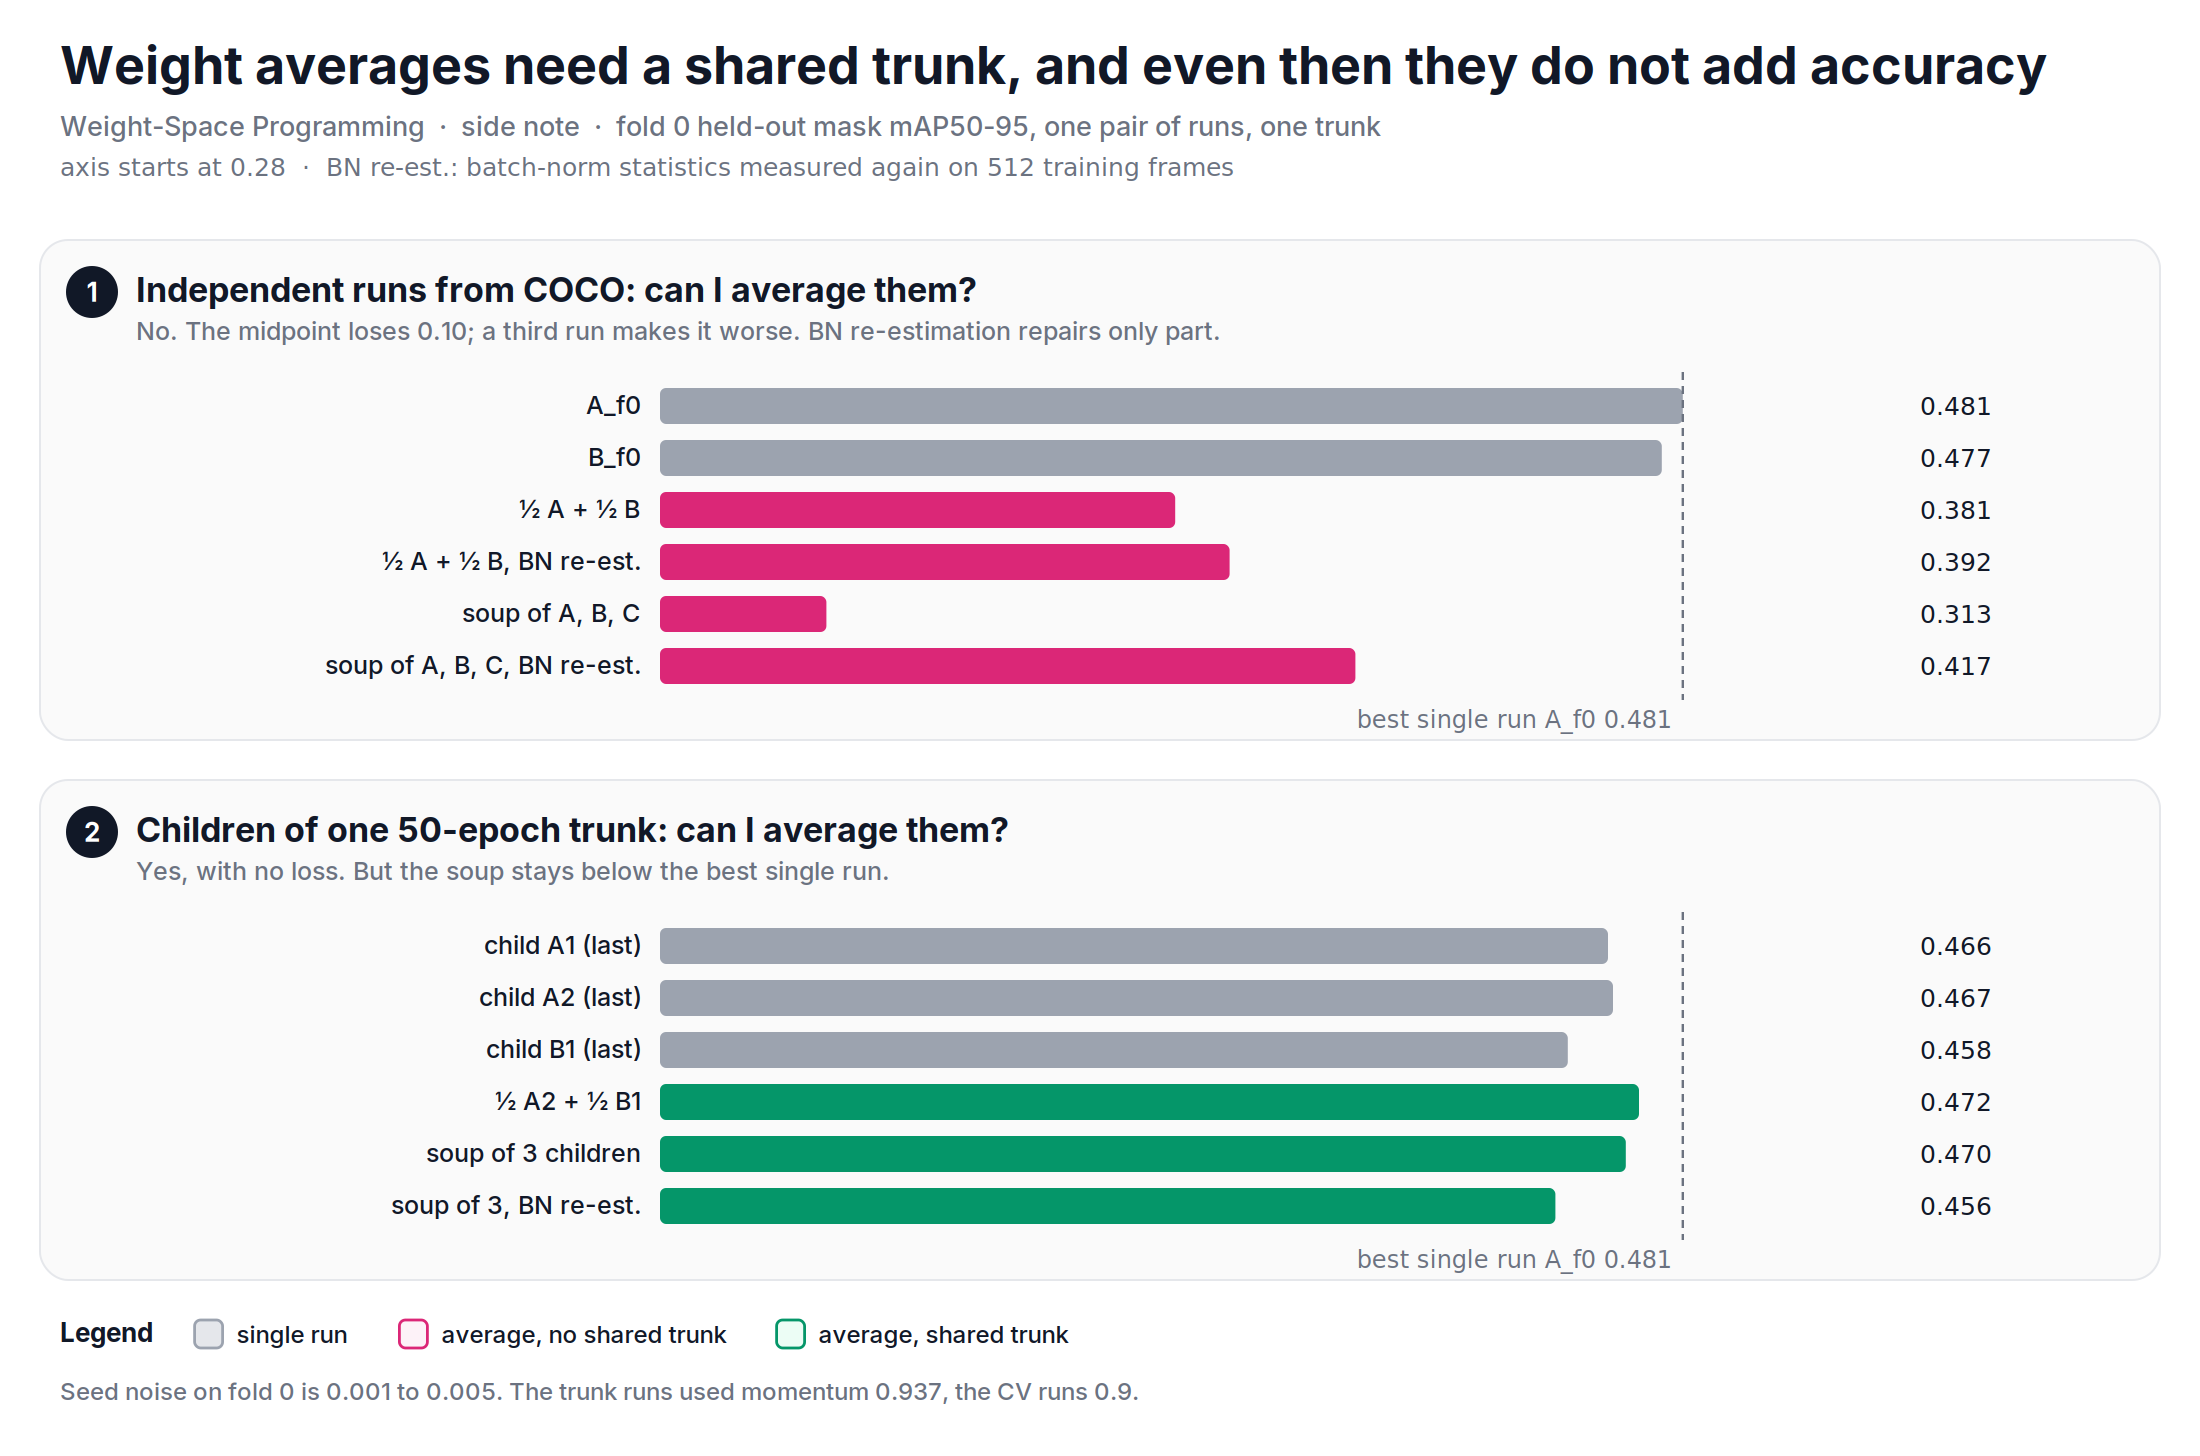
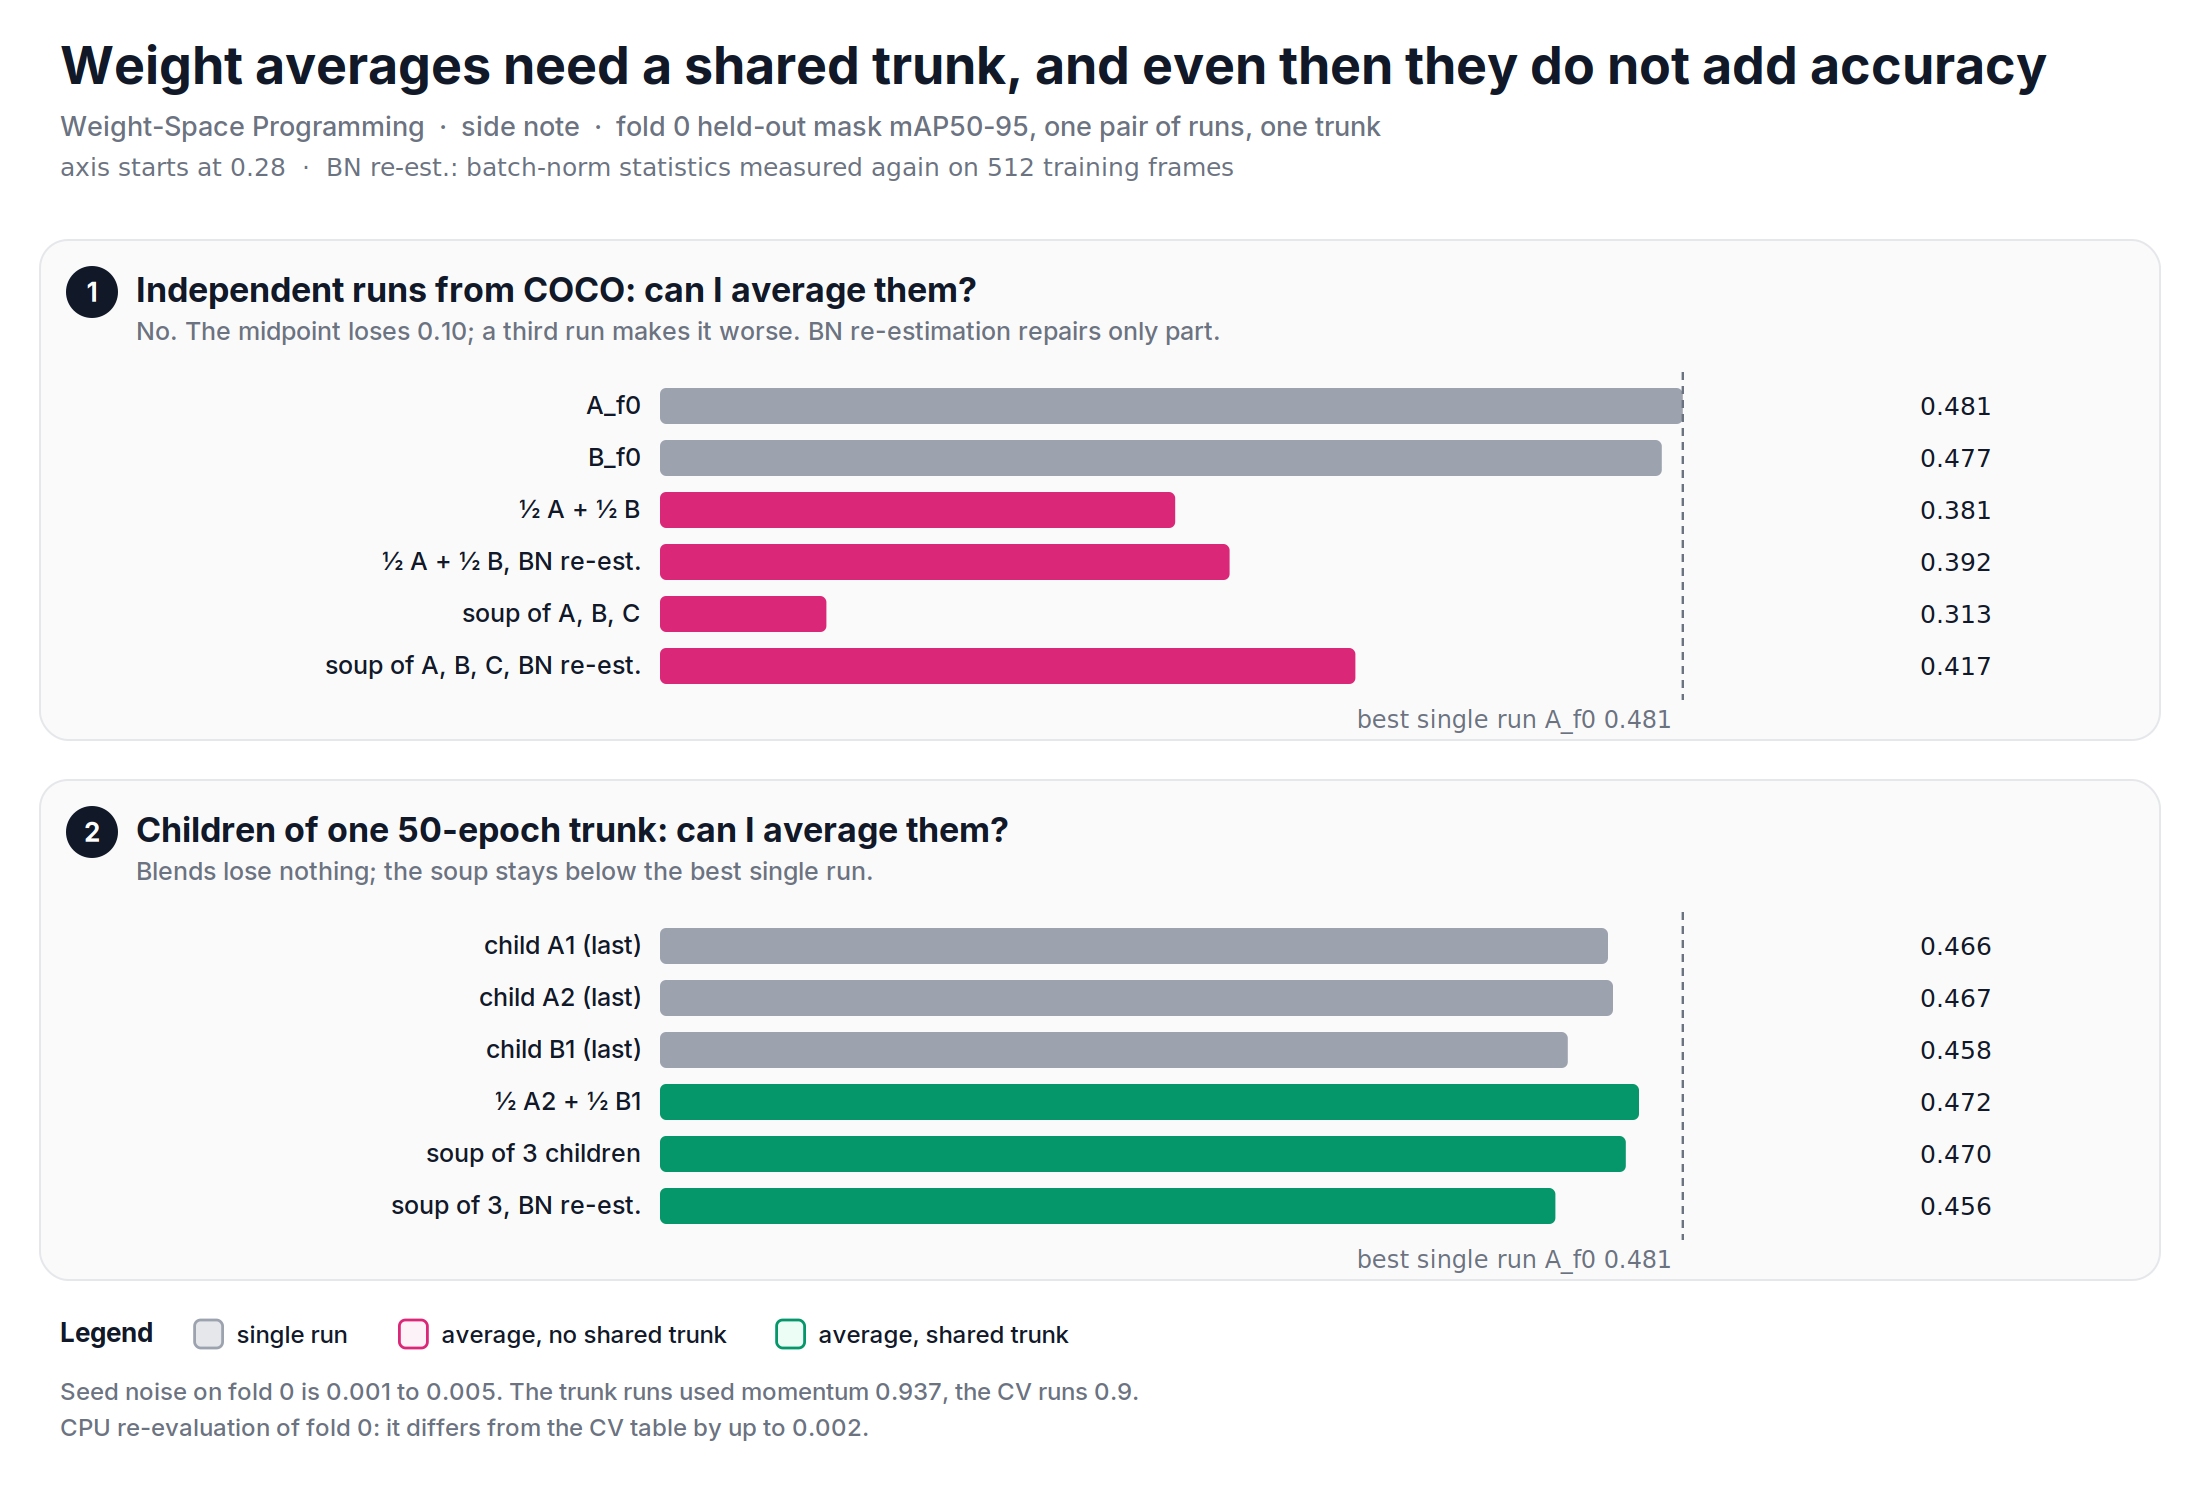
Weight-Space Programming side note: apply review fixes (confounds, eval source, wording)

diff --git a/learnings/20261114_wsp_eel_agent_training/diagrams/fig2_merge.py b/learnings/20261114_wsp_eel_agent_training/diagrams/fig2_merge.py
@@ -40,7 +40,7 @@ bars(d, y1 + 74, [
 ])
 y2, h2 = y1 + h1 + 20, 250
 d.panel(y2, h2, 2, "Children of one 50-epoch trunk: can I average them?",
-        "Yes, with no loss. But the soup stays below the best single run.")
+        "Blends lose nothing; the soup stays below the best single run.")
 bars(d, y2 + 74, [
     ("child A1 (last)", p.mm(t, "child_A1:last"), NEUTRAL),
     ("child A2 (last)", p.mm(t, "child_A2:last"), NEUTRAL),
@@ -53,5 +53,6 @@ y = y2 + h2 + 20
 d.legend(30, y, [(NEUTRAL, "single run"), (PINK, "average, no shared trunk"), (EMERALD, "average, shared trunk")])
 end = d.footnotes(30, y + 40, [
     "Seed noise on fold 0 is 0.001 to 0.005. The trunk runs used momentum 0.937, the CV runs 0.9.",
+    "CPU re-evaluation of fold 0: it differs from the CV table by up to 0.002.",
 ])
 d.save(height=end + 10)

diff --git a/learnings/20261114_wsp_eel_agent_training/diagrams/fig1_cv.py b/learnings/20261114_wsp_eel_agent_training/diagrams/fig1_cv.py
@@ -45,7 +45,7 @@ d.panel(y1, h1, 1, "Mask mAP50-95: which recipe is better?",
 strip(d, y1 + 80, "mask50-95", 0.46, 0.53, [0.46, 0.48, 0.50, 0.52])
 y2, h2 = y1 + h1 + 20, 290
 d.panel(y2, h2, 2, "Mask mAP50: which recipe is better?",
-        "B, on 4 of 5 folds, with half the spread. On fold 3, A drops to 0.920.")
+        "B, on 4 of 5 folds, with less than half the spread. On fold 3, A drops to 0.920.")
 strip(d, y2 + 80, "mask50", 0.91, 0.975, [0.92, 0.94, 0.96])
 y = y2 + h2 + 20
 d.legend(30, y, [(BLUE, "recipe A"), (AMBER, "recipe B (shipped as the candidate)")])

diff --git a/learnings/20261114_wsp_eel_agent_training/eel_agent_training.py b/learnings/20261114_wsp_eel_agent_training/eel_agent_training.py
@@ -20,6 +20,7 @@ HERE = Path(__file__).resolve().parent
 
 # Numbers that exist only in the study's notes and logs, copied exactly.
 LOGGED: dict[str, Any] = {
+    "prod_trainset": (0.950, 0.488),  # prod mask mAP50 / mAP50-95 on the dataset it trained on
     "frames": 4986,
     "val_per_fold": 1000,  # about 1,000 held-out frames per fold
     "fold_gap": 50,  # frames closer than 50 frame numbers stay in one fold
